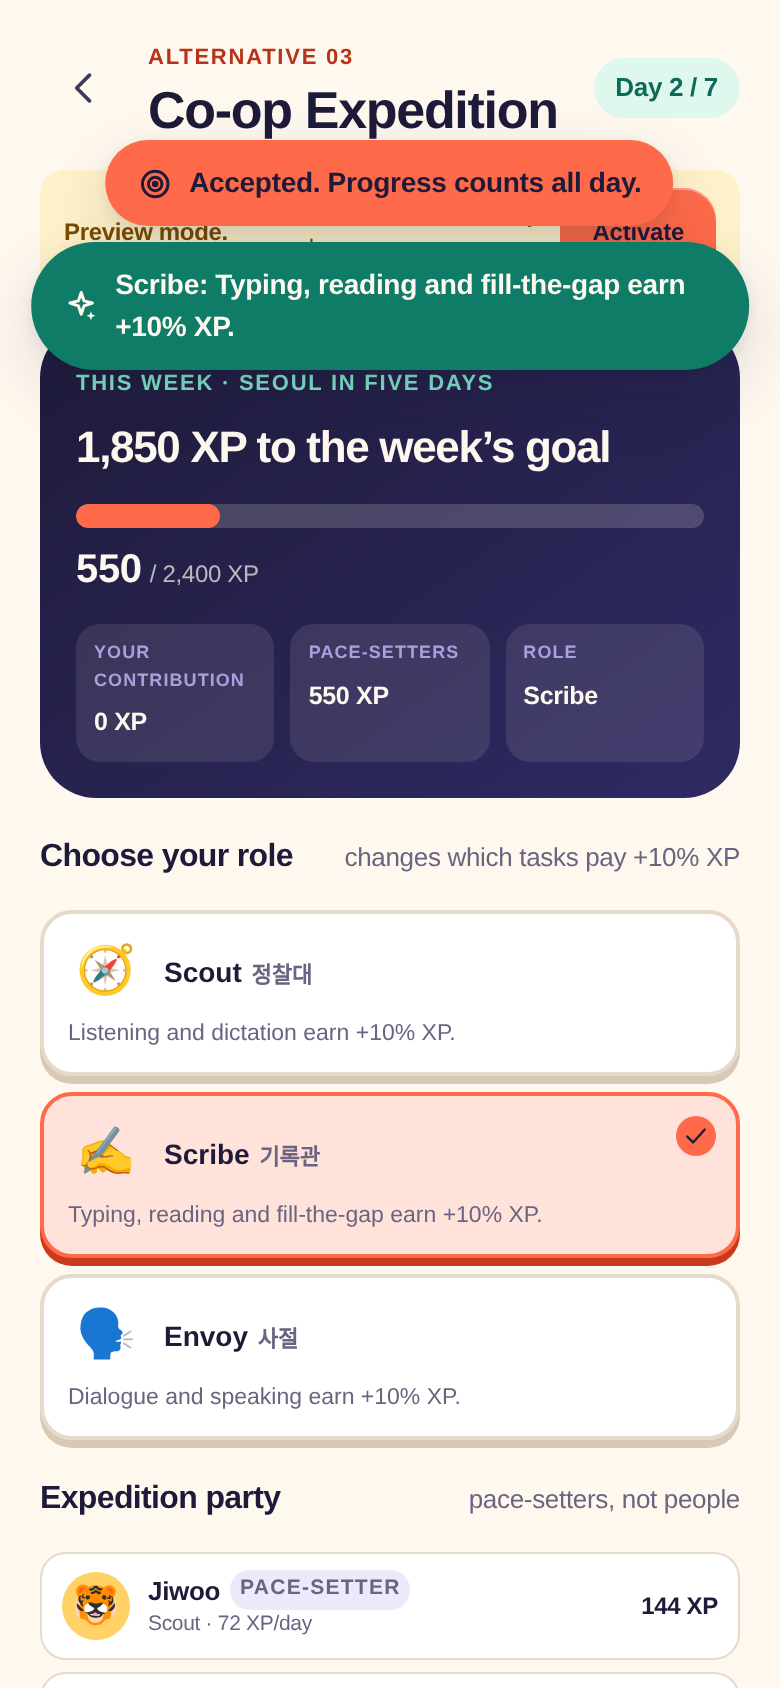
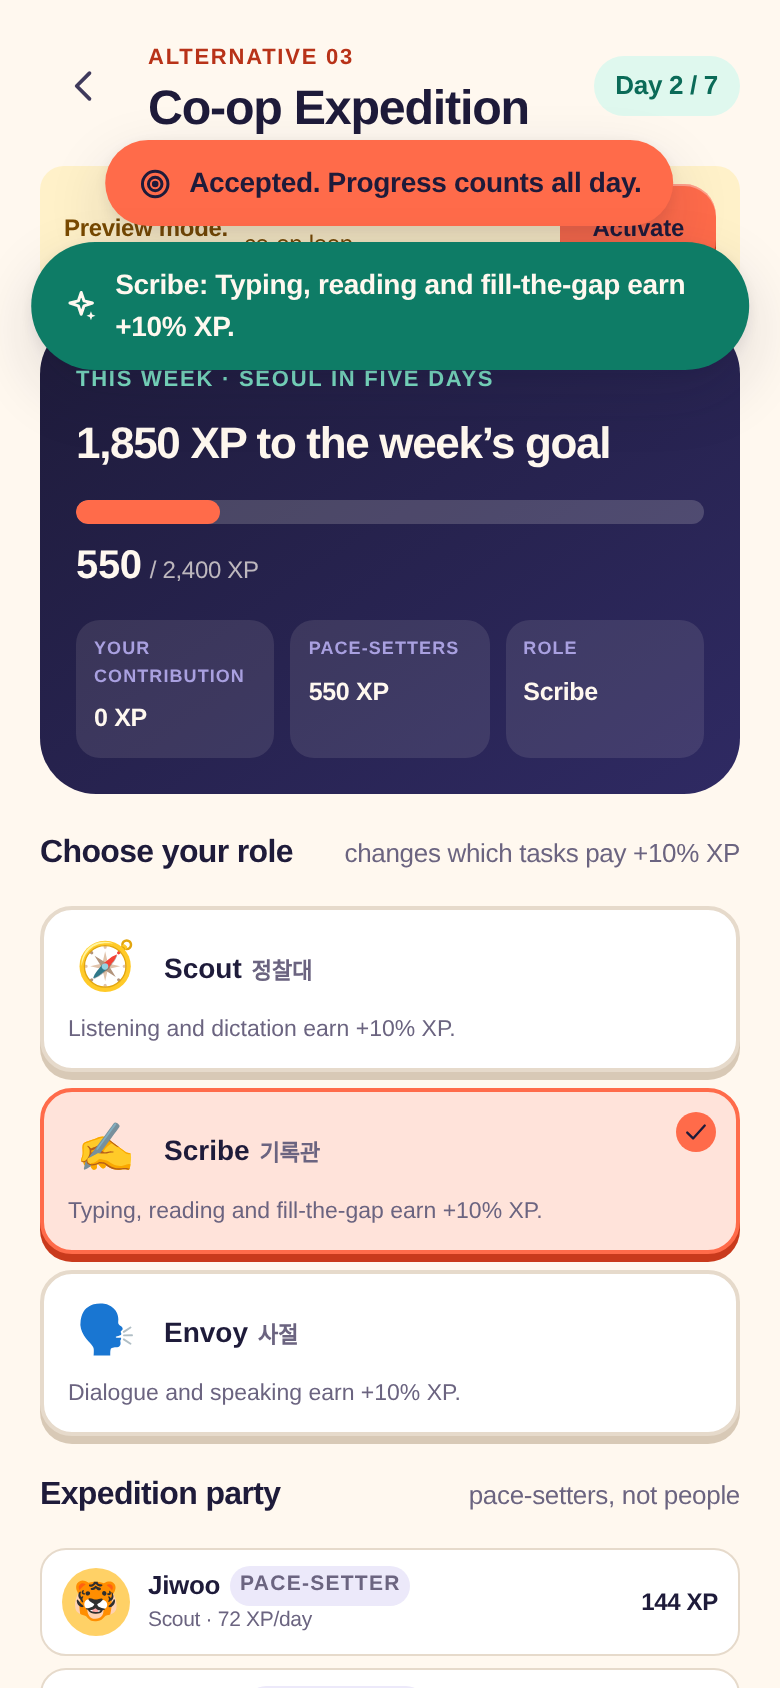
Engagement lab polish: full targeted practice for sparse grammar, header, docs

diff --git a/app/js/core/engine.js b/app/js/core/engine.js
@@ -7,6 +7,7 @@ import {
   SENTENCE_BY_ID,
   WORDS,
   WORD_BY_ID,
+  GRAMMAR_BY_ID,
   lessonAt,
   nextLessonIndex,
   lessonsOf,
@@ -193,6 +194,17 @@ export function buildLessonItems(lesson, { name = '', mastery = {} } = {}) {
   return interleave(items);
 }
 
+function seededShuffle(arr, seed) {
+  const a = arr.slice();
+  let s = seed * 9301 + 49297;
+  for (let i = a.length - 1; i > 0; i--) {
+    s = (s * 9301 + 49297) % 233280;
+    const j = Math.floor((s / 233280) * (i + 1));
+    [a[i], a[j]] = [a[j], a[i]];
+  }
+  return a;
+}
+
 function shuffleSeeded(arr, seed) {
   const a = arr.slice();
   let s = seed * 9301 + 49297;
@@ -234,7 +246,7 @@ export function buildSession(kind, params = {}, mastery = {}, name = '') {
   } else if (kind === 'practice' && params.grammarId) {
     const gid = params.grammarId;
     const pool = SENTENCES.filter((s) => (s.grammarIds || []).includes(gid));
-    const chosen = pool.slice(0, 6);
+    const chosen = pool.slice(0, 4);
     const poolWords = chosen.length ? wordsOf(chosen[0].unitId) : [];
     const poolIds = pool.map((s) => s.id);
     chosen.forEach((s, i) => {
@@ -244,6 +256,40 @@ export function buildSession(kind, params = {}, mastery = {}, name = '') {
       if (ex1) items.push(ex1);
       const ex2 = sentenceTask(s, [second, 'listen_pick'], { pool: poolIds, poolWords, name });
       if (ex2 && ex2.type !== ex1?.type) items.push(ex2);
+    });
+    // Sparse grammar points still get a full practice: the pattern's own examples
+    // become write-it and build-it tasks with their bundled audio.
+    const g = GRAMMAR_BY_ID[gid];
+    (g?.examples || []).forEach((ex, i) => {
+      const common = {
+        sentenceId: null,
+        wordId: null,
+        lessonId: null,
+        unitId: g.unitId,
+        korean: ex.ko,
+        english: ex.en,
+        romanization: '',
+        gloss: [],
+        grammarIds: [gid],
+        grammarTag: `${g.ko} · ${g.pattern}`,
+        clipId: `${gid}_${i + 1}`,
+        clipKind: 'g',
+        prompt: ex.en,
+        answerText: ex.ko,
+      };
+      items.push({ ...common, type: 'type_answer', id: `target:${gid}:ex${i}:type`, instruction: 'Write the example', input: true, hint: g.ko });
+      const tokens = tokenize(ex.ko);
+      if (tokens.length >= 3) {
+        items.push({
+          ...common,
+          type: 'tile_build',
+          id: `target:${gid}:ex${i}:tiles`,
+          instruction: 'Build the example',
+          answer: tokens,
+          tiles: seededShuffle(tokens, i + 3),
+          altOrders: [],
+        });
+      }
     });
     items = interleave(items);
     lesson = { id: `target_${gid}`, nodeIndex: null, kind: 'practice', unitId: chosen[0]?.unitId || null };

diff --git a/app/js/screens/lab.js b/app/js/screens/lab.js
@@ -53,7 +53,7 @@ export default {
           <span class="overline">Experiment branch</span>
           <h1 class="h2">Engagement Lab</h1>
         </div>
-        <span class="pill pill--indigo pill--sm">gamification-lab</span>
+        <span class="pill pill--indigo pill--sm">LAB</span>
       </div>
 
       <div class="labhub-hero">

diff --git a/app/styles/lab.css b/app/styles/lab.css
@@ -12,6 +12,10 @@
   gap: 10px;
   padding-top: 8px;
 }
+.labhub-top .h2 {
+  font-size: clamp(22px, 6.2vw, 28px);
+  white-space: nowrap;
+}
 .labhub-hero {
   display: flex;
   align-items: center;

diff --git a/README.md b/README.md
@@ -58,6 +58,8 @@ Lessons differ by kind: vocabulary opens with word cards, grammar starts with a 
 
 This branch adds three **alternative engagement systems** on top of the same course, switchable at `#/lab` (Me → Engagement Lab):
 
+![Engagement Lab](docs/screenshots/lab-hub.png)
+
 | Mode | The bet | What changes |
 |---|---|---|
 | **Skill Constellation** | Autonomy + visible mastery | 48 grammar stars on a map; light any star you can reach; tap → targeted 5-sentence practice |
